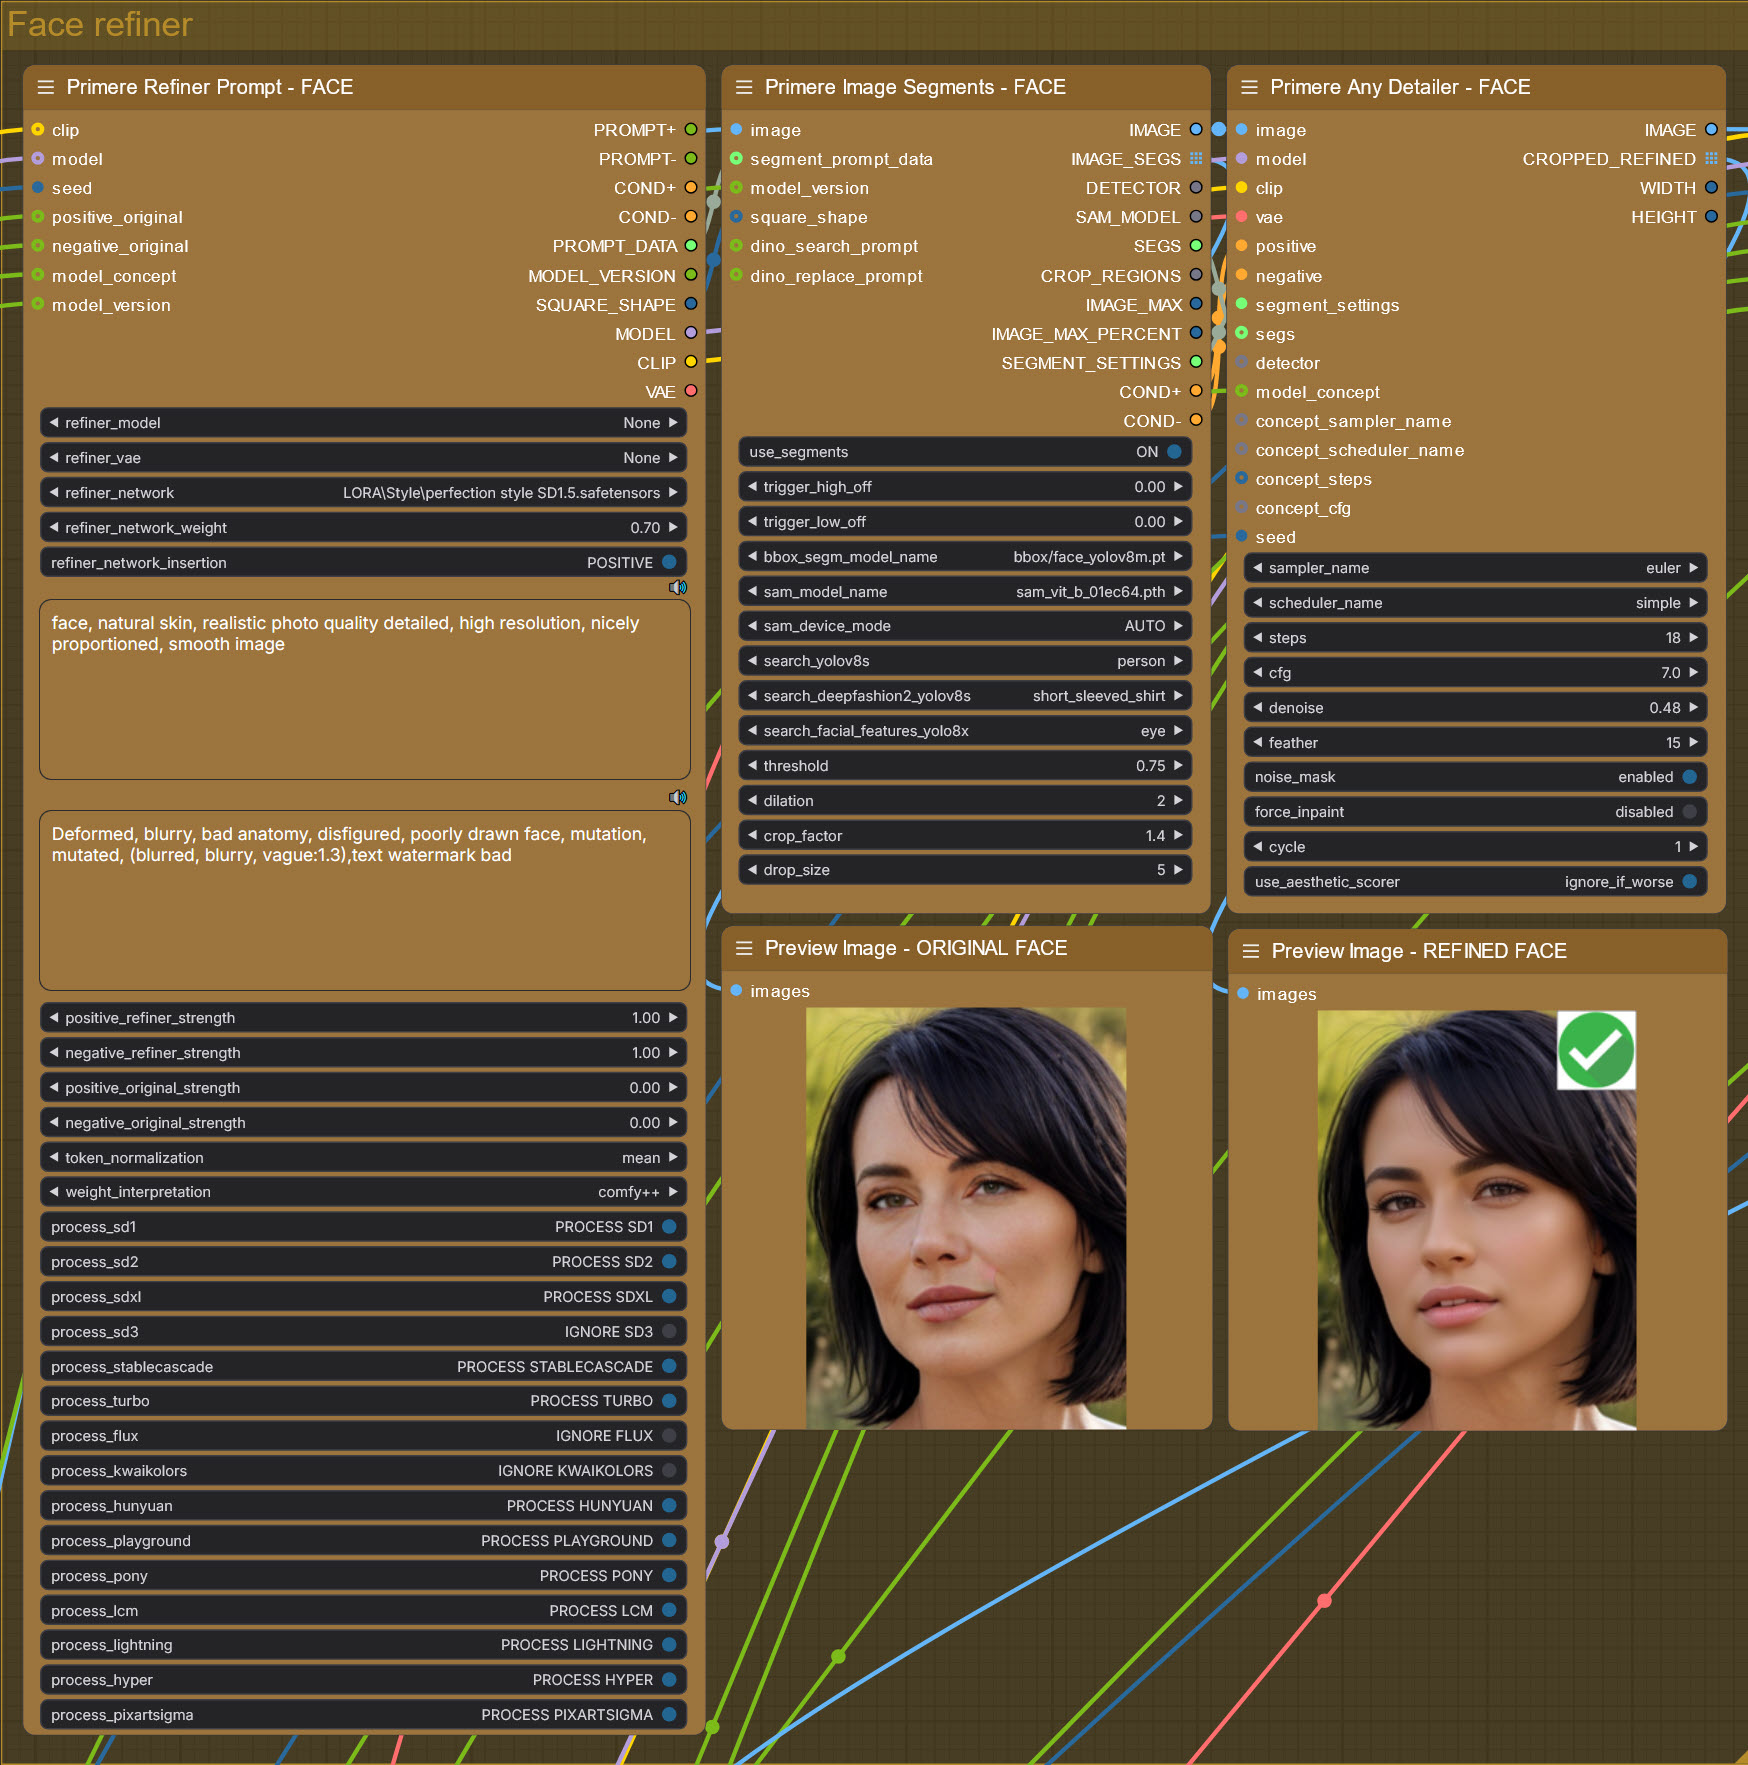
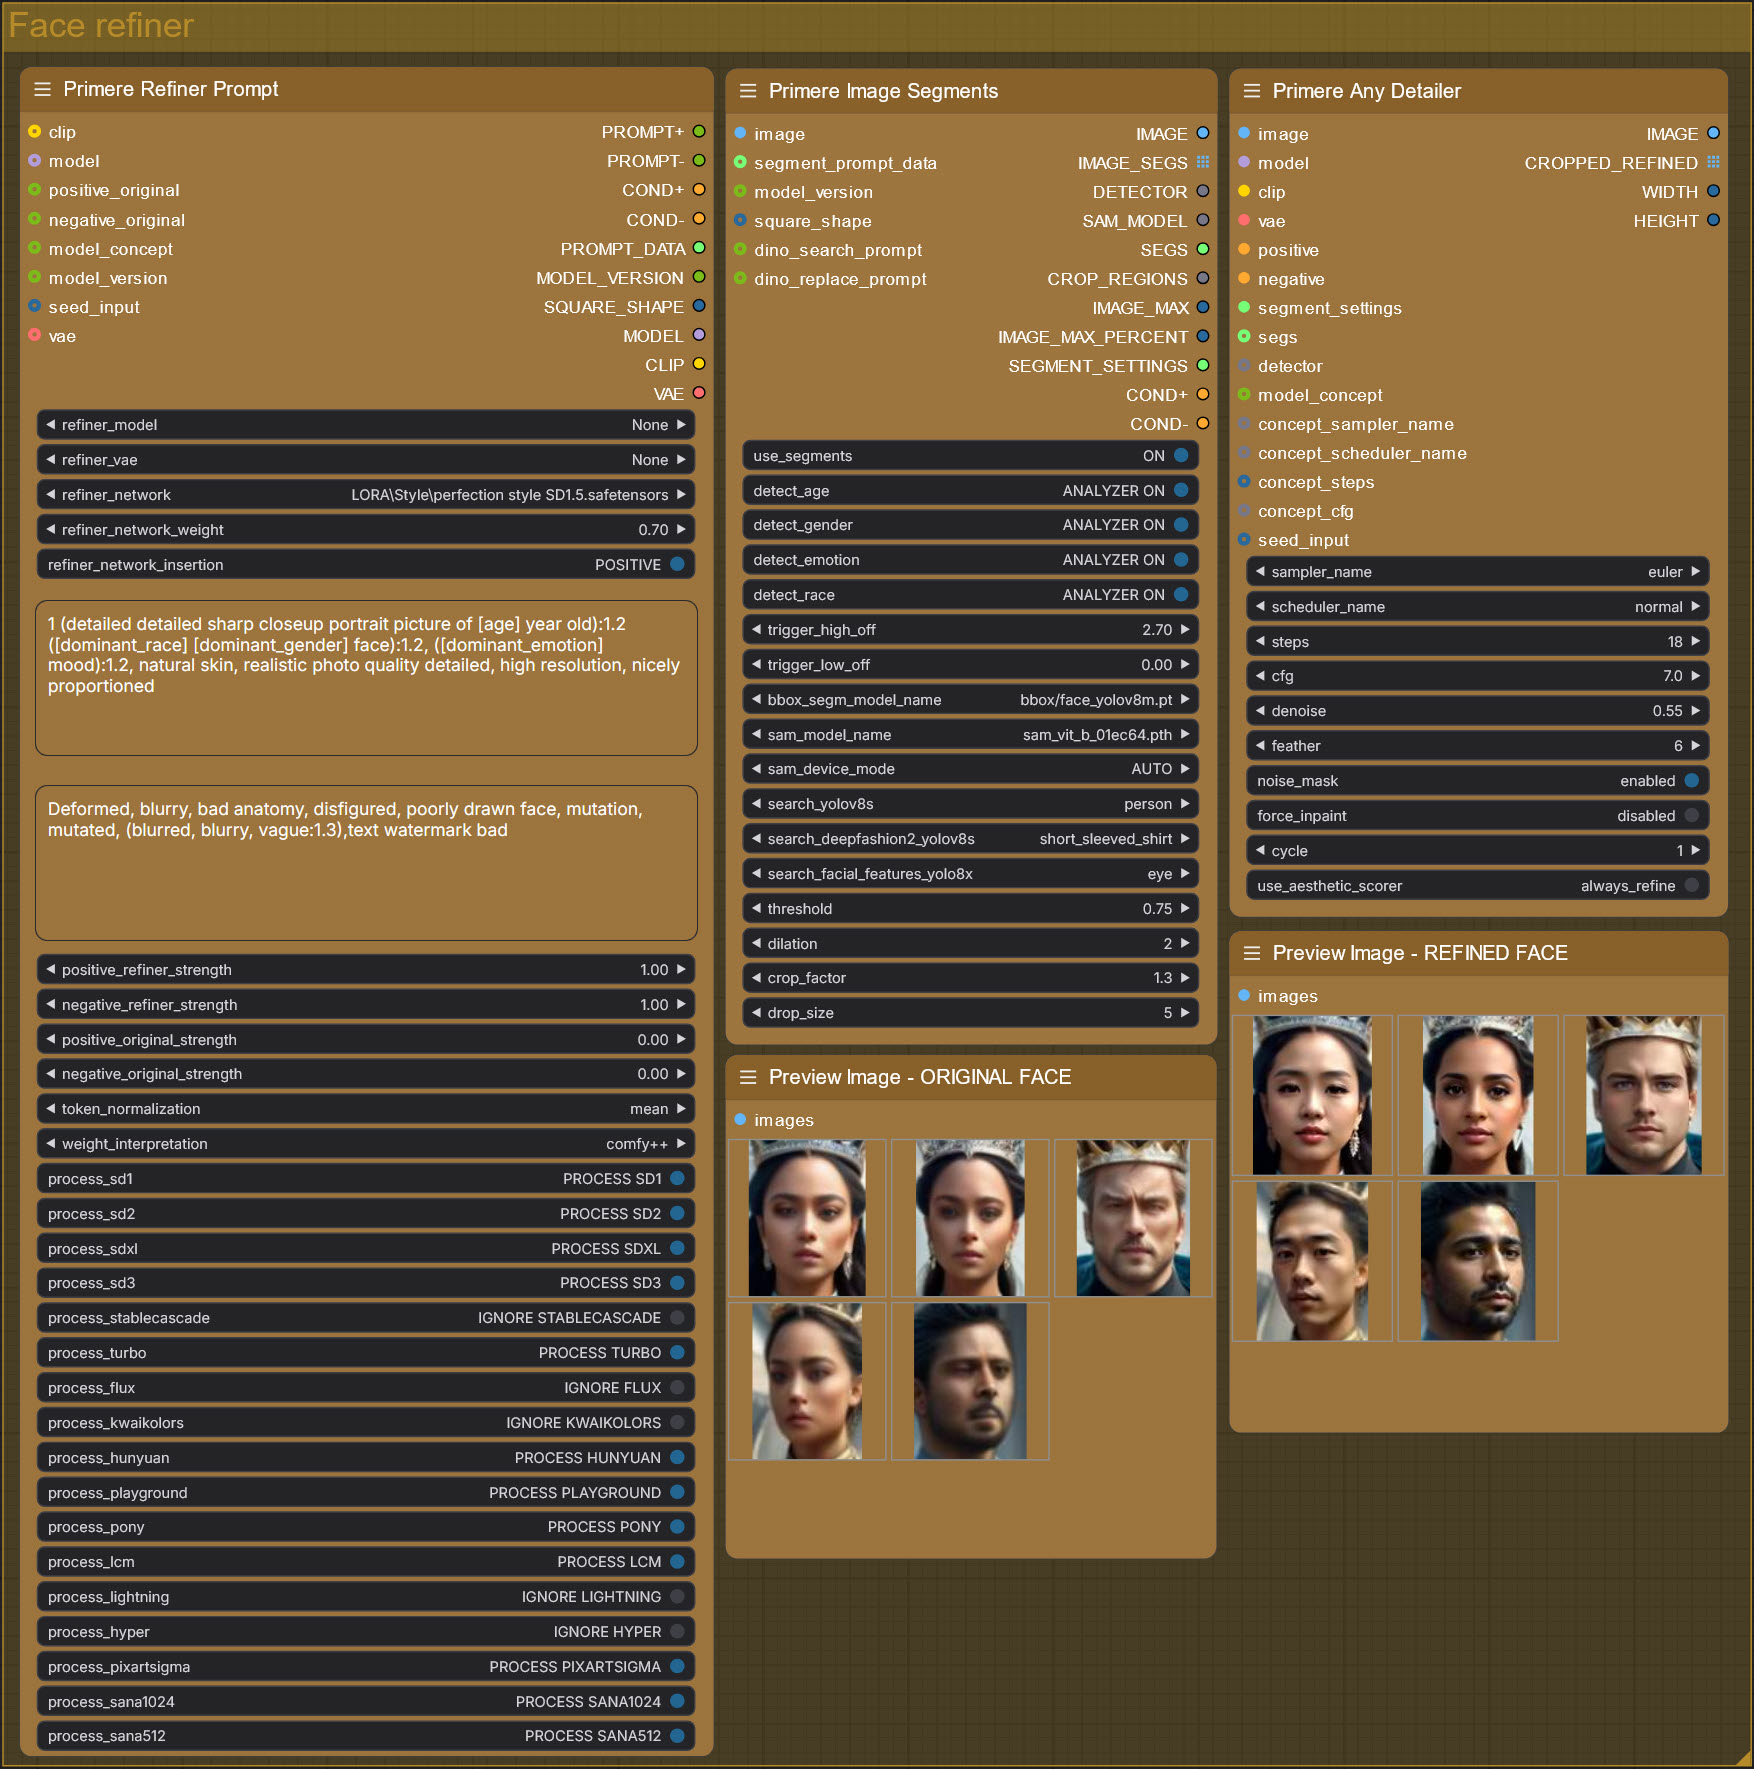
V 1.0.6 - deepface 4 - file check

diff --git a/Nodes/Segments.py b/Nodes/Segments.py
@@ -489,7 +489,7 @@ class PrimereFaceAnalyzer:
         if not os.path.exists(deepface_weights_path):
             os.makedirs(deepface_weights_path)
         os.environ["DEEPFACE_HOME"] = deepface_path
-        required_weights = ['age_model_weights.h5', 'age_model_weights.h5', 'gender_model_weights.h5', 'race_model_single_batch.h5']
+        required_weights = ['age_model_weights.h5', 'facial_expression_model_weights.h5', 'gender_model_weights.h5', 'race_model_single_batch.h5']
         for deepface_weights in required_weights:
             deepface_file_path = os.path.join(deepface_weights_path, deepface_weights)
             if not os.path.exists(deepface_file_path):

diff --git a/README.md b/README.md
@@ -4,7 +4,7 @@
 
 **Primere Youtube channel:** https://www.youtube.com/@PrimereComfydev/videos
 
-**3rd party nodepack depencency:** https://github.com/city96/ComfyUI_ExtraModels
+**Install 3rd party nodepack depencency:** https://github.com/city96/ComfyUI_ExtraModels
 
 <hr>
 
@@ -38,7 +38,7 @@ After nodepack update of **12/3/2024 - v1.0.2** ComfyUI front-end must be update
 
 ## Basic workflow:
 
-The difference between **minimal** and **basic** workflows, that **basic** workflow automatically detect and support several model concepts. The main difference between workflows the large node group `Concept sampler group` with lot of samplers (1 sampler / concept) and the main `Model concept selector` node. 
+The main difference between **minimal** and **basic** workflows, that **basic** workflow automatically detect and support several model concepts. The main difference between workflows the large node group `Concept sampler group` with lot of samplers (1 sampler / concept) and the main `Model concept selector` node. 
 
 <img src="./Workflow/Manual/wf_basic.jpg" width="800px">
 
@@ -60,7 +60,7 @@ The difference between **minimal** and **basic** workflows, that **basic** workf
 
 ## Basic production workflow:
 
-The difference between **basic production** and **basic** workflows, that **basic production** workflow can use LLM prompt refiner (LLM models have to be installed locally) and face, eye, mouth, and hand refiner available. 4 prompt input for test, 4 prompt input for dev attached to prompt switcher. 
+The main difference between **basic production** and **basic** workflows, that **basic production** workflow can use LLM prompt refiner (LLM models have to be installed locally) and face, eye, mouth, and hand refiner available. 4 prompt input for test, 4 prompt input for dev attached to prompt switcher. 
 
 <img src="./Workflow/Manual/wf_basic_prod.jpg" width="800px">
 
@@ -73,5 +73,6 @@ The difference between **basic production** and **basic** workflows, that **basi
 - Added 4 test and 4 development prompt inputs, easy to switch
 - Local LLM models can help refine/repair prompts. Refined prompts can be added to original, replace original, or keep original as L prompt but send refined to T5-XXL clip is avalable in clip encoder node 
 - Customizable refiner blocks for face, eye, mouth, and hand refining. These nodes automatically downloads required segmentator models, check space before first usage
+- Refiner blocks using [DeepFace analyzer](https://github.com/serengil/deepface) if needed
 
 <hr>

diff --git a/Workflow/Manual/nodes/basic_production_workflow.md b/Workflow/Manual/nodes/basic_production_workflow.md
@@ -175,6 +175,11 @@ Positive Example:
 
 Negative Example:
 "Deformed, blurry, bad anatomy, disfigured, poorly drawn face, mutation, mutated, (blurred, blurry, vague:1.3), text, watermark"
+
+Positive Example if use Deepface analyzer:
+"1 (detailed detailed sharp closeup portrait picture of [age] year old):1.2 ([dominant_race] [dominant_gender] face):1.2, ([dominant_emotion] mood):1.2, natural skin, realistic photo quality detailed, high resolution, nicely proportioned"
+
+where the string between [key] will be changed by DeepFace analyzer
 ```
 
 You can mix the original positive and negative prompts to refining process with `positive_original_strength` and `negative_original_strength` inputs
@@ -197,7 +202,12 @@ You can mix the original positive and negative prompts to refining process with 
 
 ## Primere Image Segments Node:
 
-### Intelligent Size-Based Processing
+### DeepFace analyzer:
+4 switch available to use [DeepFace analyzer](https://github.com/serengil/deepface) to keep characteristic of original faces. These 4 attribute: `age`, `gender`, `race` and `emotion`. These four results will be used on the refiner's prompt if prompt contains string: `[key_of_attribute]`  
+
+**This Python module change another modules by version. Make backup of your current Python libs before install DeepFace. If something wrong after installed DeepFace, just revert back the updated Python libs to previous state from backup.**
+
+### Intelligent Size-Based Processing:
 - `trigger_high_off`: Skips refinement for large segments
 - `trigger_low_off`: Ignores very small segments
 - Size thresholds based on percentage of original image
